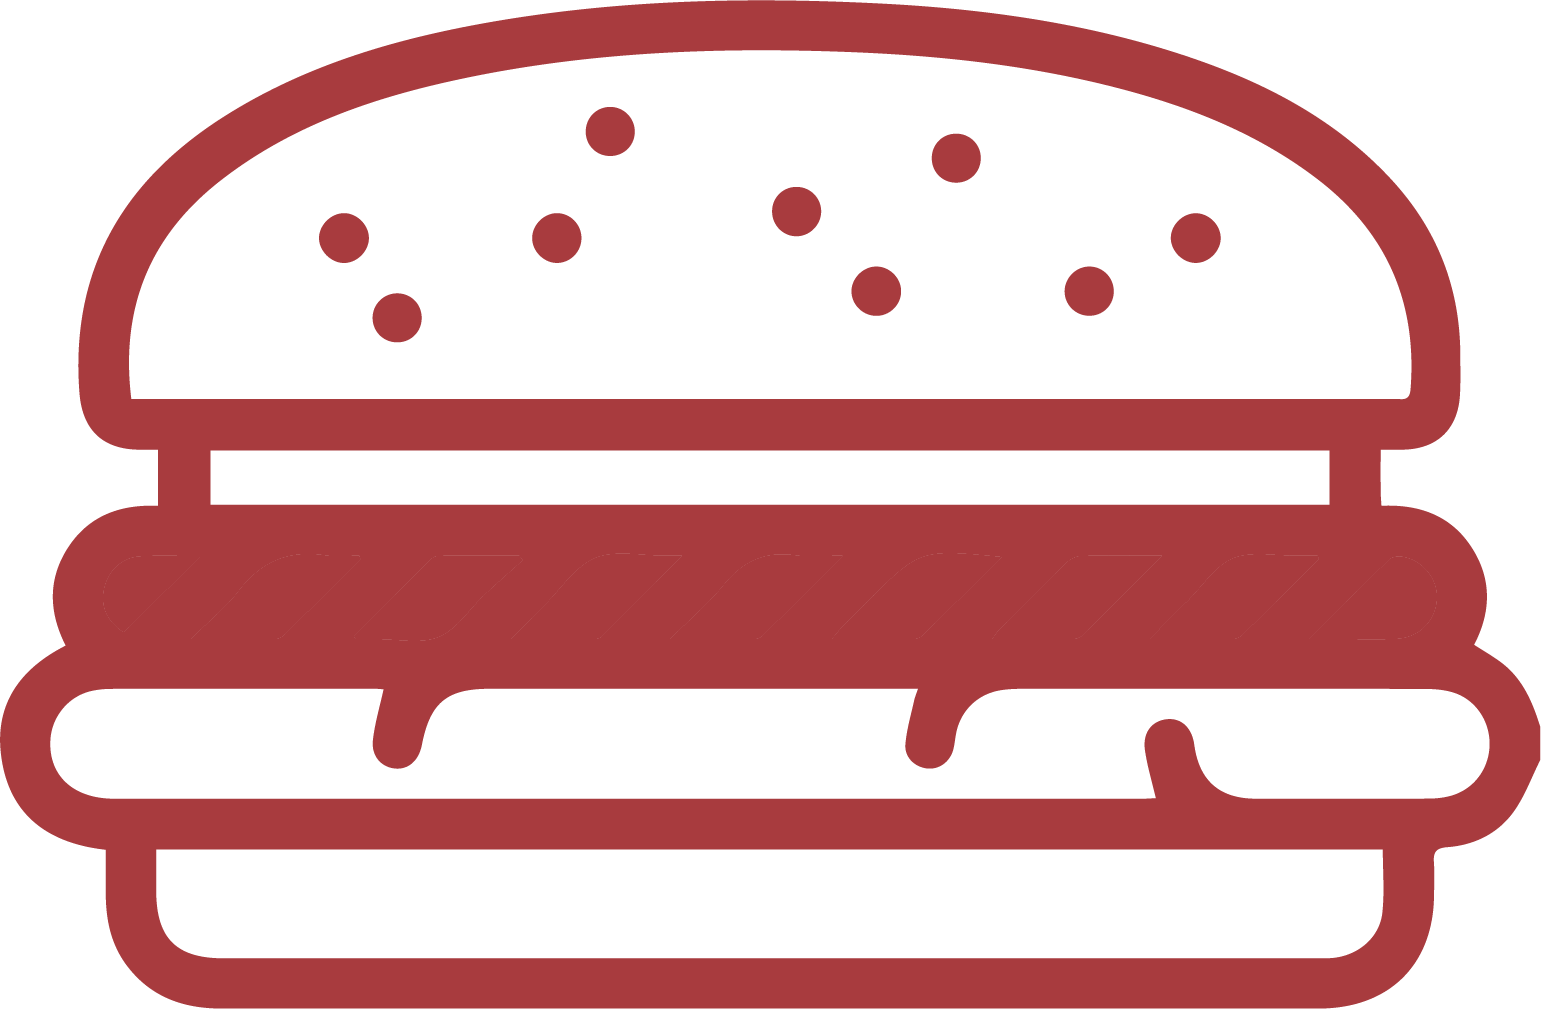
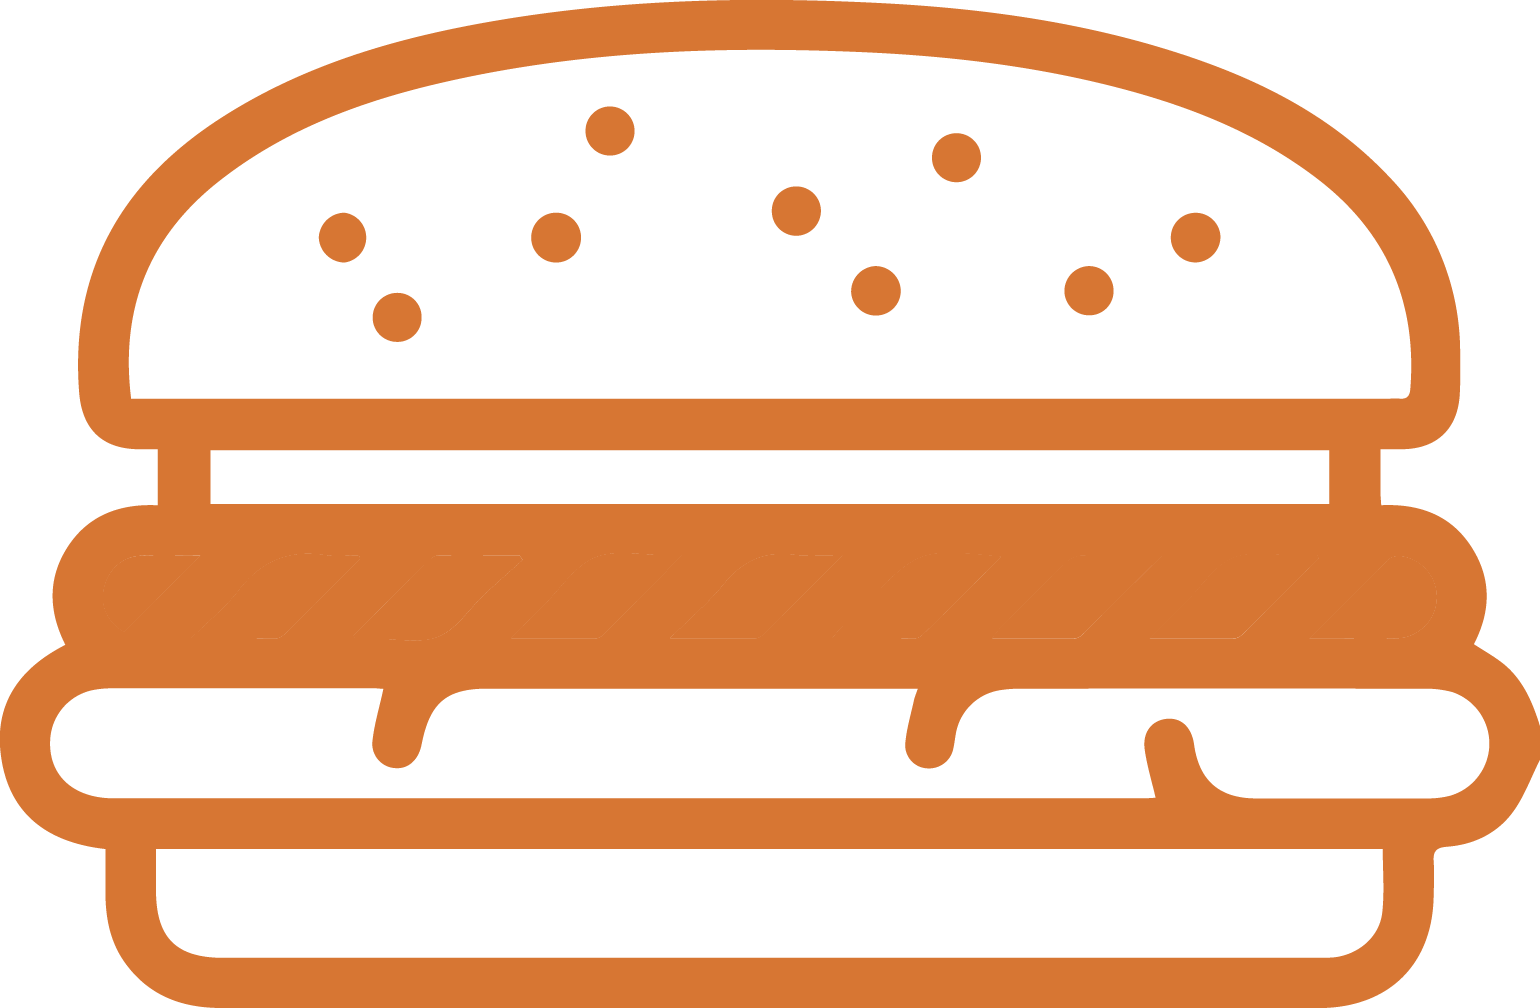
nuevos cambios

diff --git a/index.html b/index.html
@@ -30,9 +30,8 @@
   <body>
     <!-- Header -->
     <header>
-      <a href="index.html" class="logo"
-        ><i class= "fas fa-hamburger fa-3x"></i>Best Burger</a
-      >
+      <a href="index.html" class="logo"><img src="assents/IMG/logo.png" alt=""></a>
+      
 
       <div id="menu-bar" class="fas fa-bars"></div>
 
@@ -92,7 +91,6 @@
         <div class="home-wrapper">
           <div class="d-flex">
             <div class="col-left">
-              <h3>Burger</h3>
               <h1>
                 Enjoy our <br />
                 best burger
@@ -102,24 +100,11 @@
                 Lorem ipsum dolor sit amet, consectetur adipisicing elit, sed do eiusmod
                 tempor incididunt ut labore et dolore magna aliqua. Ut enim ad minim veniam,
                 quis nostrud exercitation ullamco laboris nisi ut aliquip ex ea commodo
-                consequat. Duis aute irure dolor in reprehenderit in voluptate velit esse
-                cillum dolore eu fugiat nulla pariatur. Excepteur sint occaecat cupidatat non
-                proident, sunt in culpa qui officia deserunt mollit anim id est laborum.
+                consequat.
               </p>
 
               <div class="d-flex">
                 <a href="#" class="btn">order now</a>
-              </div>
-              <div class="social-icons">
-                <a href="#">
-                  <i class="fab fa-facebook-f"></i>
-                </a>
-                <a href="#">
-                  <i class="fab fa-uber"></i>
-                </a>
-                <a href="#">
-                  <i class="fab fa-whatsapp"></i>
-                </a>
               </div>
             </div>
             <div class="col-right">
@@ -301,12 +286,12 @@
 
      <div class="container d-flex">
       <form action="">
-        <input type="text" placeholder="your name" class="box" />
-        <input type="email" placeholder="your email" class="box" />
-        <input type="tumber" placeholder="your number" class="box" />
+        <input type="text" placeholder="Your Name" class="box" />
+        <input type="email" placeholder="Your Email" class="box" />
+        <input type="tumber" placeholder="Your Number" class="box" />
         <textarea
           name=""
-          placeholder="your message"
+          placeholder="Your Message"
           id=""
           cols="30"
           rows="10"
@@ -330,14 +315,13 @@
           </p>
           <div class="share">
             <a href="#" class="fab fa-facebook-f"></a>
-            <a href="#" class="fab fa-uber"></a>
             <a href="#" class="fab fa-whatsapp"></a>
-            <a href="https://github.com/alinaverdes" target="_blank" class="fab fa-github"></a>
+            <a href="#" class="fab fa-instagram"></a>
           </div>
         </div>
 
         <div class="box" data-aos="fade-up" data-aos-delay="300">
-          <h3>quick links</h3>
+          <h3 style="color: #d77633 !important;">quick links</h3>
           <a href="#home" class="links">
             <i class="fas fa-arrow-right"></i> Home</a
           >
@@ -356,7 +340,7 @@
         </div>
 
         <div class="box" data-aos="fade-up" data-aos-delay="450">
-          <h3>Contact info</h3>
+          <h3 style="color: #d77633 !important;">Contact info</h3>
           <p><i class="fas fa-map"></i> Calle Serrano, 122, Madrid</p>
           <p><i class="fas fa-phone"></i> 910 012 000</p>
           <p><i class="fas fa-envelope"></i> bestburger@gmail.com</p>

diff --git a/assents/CSS/style.css b/assents/CSS/style.css
@@ -10,6 +10,7 @@ header {
     display: flex;
     align-items: center;
     justify-content: space-between;
+
 }
 
 header .logo {
@@ -18,10 +19,14 @@ header .logo {
     font-size: 2rem;
 }
 
-header .logo i {
-    margin-right: .3rem;
-}
 
+
+header .logo img {
+  
+    height: 100px;
+    width: 100px;
+   
+}
 header .navbar a {
     font-size: 1.8rem;
     margin-left: 2.5rem;
@@ -34,7 +39,7 @@ header .navbar a:hover {
 
 #menu-bar {
     font-size: 3.5rem;
-    color: #fff;
+    color: #C7D1CC;
     cursor: pointer;
     display: none;
 }
@@ -46,7 +51,7 @@ header .navbar a:hover {
 }
 
 .home-wrapper {
-    padding-top: 10px;
+    padding-top: 40px;
     height: 100%;
     min-height: 10vh;
     align-items: center;
@@ -107,8 +112,8 @@ header .navbar a:hover {
 }
 
 .effects-1 img {
-    height: 60px;
-    width: 60px;
+    height: 40px;
+    width: 40px;
     animation: spin 15s linear infinite;
 }
 
@@ -229,7 +234,7 @@ header .navbar a:hover {
 }
 
 .services .box-conatiner .box:hover {
-    border: 0.2rem solid var(--first-color);
+    border: 0.2rem solid var(--text-color);
 }
 
 .services .box-conatiner .box i {
@@ -240,13 +245,13 @@ header .navbar a:hover {
 
 .services .box-conatiner .box h3 {
     font-size: 2rem;
-    color: var(--color-white);
+    color: #d77633;
 }
 
 .services .box-conatiner .box p {
     padding: 1rem 0;
     font-size: 1.4rem;
-    color: #fff;
+    color: #C7D1CC;
     line-height: 2;
 }
 
@@ -295,7 +300,7 @@ header .navbar a:hover {
 .menu .box-container .box .content p {
     padding: 1rem 0;
     font-size: 1.4rem;
-    color: #fff;
+    color: #C7D1CC;
     line-height: 2;
 }
 
@@ -443,7 +448,7 @@ header .navbar a:hover {
 
 .footer .box-container .box h3 {
     font-size: 2.2rem;
-    color: #fff;
+    color: #C7D1CC;
     padding: 1rem 0;
 }
 

diff --git a/assents/CSS/config.css b/assents/CSS/config.css
@@ -1,12 +1,12 @@
 :root {
-    --first-color: #a83b3e;
-    --first-color-alt: #a83b3e;
-    --text-color-light: #ffff;
-    --title-color: #FFFF;
+    --first-color: #d77633;
+    --first-color-alt: #d77633;
+    --text-color-light: #d77633 !important;
+    --title-color: #d77633;
     --text-color: #C7D1CC;
     --body-color: #000000;
     --body-color-dark: #000000;
-    --container-color: #FFFF;
+    --container-color: #C7D1CC;
 }
 
 @keyframes float {
@@ -102,7 +102,7 @@ h1, h2 {
 }
 
 h3 {
-    color: var(--text-color-light);
+    color: #d77633;
     font-size: 23px;
     font-weight: 400;
     margin-bottom: 13px;
